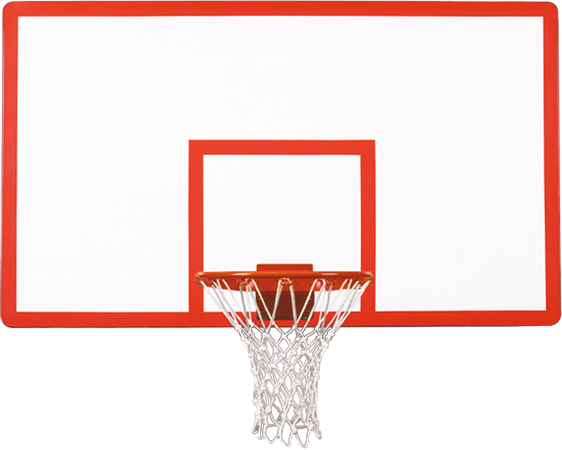
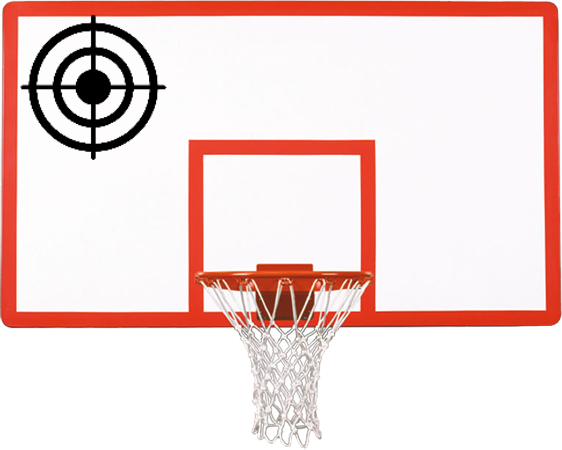
att alvo e posição da cesta ao ser atingida pela bola

Changed region(s): [[0.0302, 0.0311, 0.3025, 0.3733]]

diff --git a/src/App.js b/src/App.js
@@ -12,7 +12,7 @@ function BasqueteGame() {
   const [isDragging, setIsDragging] = useState(false);
   const [dragStartPosition, setDragStartPosition] = useState({ x: 0, y: 0 });
   const [initialBallPosition, setInitialBallPosition] = useState({ x: 45, y: 90 });
-  const cestaPosicao = { x: 45, y: 10 }; // Posição fixa da cesta
+  const [cestaPosicao, setCestaPosicao] = useState({ x: 45, y: 10 }); // Posição inicial da cesta
   const animationFrameId = useRef(null);
 
   const handleMouseDown = (event) => {
@@ -77,11 +77,23 @@ function BasqueteGame() {
     const updatePosition = (x, y, velX, velY) => {
       setBolaposicao({ x, y });
 
-      // Verifica se a bola acertou a cesta
-      if (Math.abs(x - cestaPosicao.x) < 10 && Math.abs(y - cestaPosicao.y) < 10) {
+      // Verifica se a bola acertou exatamente no meio da cesta (ajustando a precisão)
+      const cestaWidth = 5; // Largura da cesta em porcentagem
+      const cestaMiddleX = cestaPosicao.x;
+      const cestaMargin = cestaWidth / 1; // Margem de acerto no meio da cesta
+
+      if (Math.abs(x - cestaMiddleX) < cestaMargin && Math.abs(y - cestaPosicao.y) < 2) {
         setPontuacao(prevPontuacao => prevPontuacao + 1);
         cancelAnimationFrame(animationFrameId.current);
         setBolaposicao({ x: 45, y: 90 });
+
+        // Define uma nova posição aleatória para a cesta
+        const newCestaPosicao = {
+          x: Math.random() * 80 + 10, // Posição aleatória no eixo x (entre 10% e 90%)
+          y: Math.random() * 30 + 10 // Posição aleatória no eixo y (entre 10% e 40%)
+        };
+        setCestaPosicao(newCestaPosicao);
+
         return;
       }
 

diff --git a/src/App.css b/src/App.css
@@ -27,7 +27,7 @@ body, html {
 }
 
 .basket {
-  width: 15vw;
+  width: 20vw;
   height: auto;
   max-width: 400;
 }
